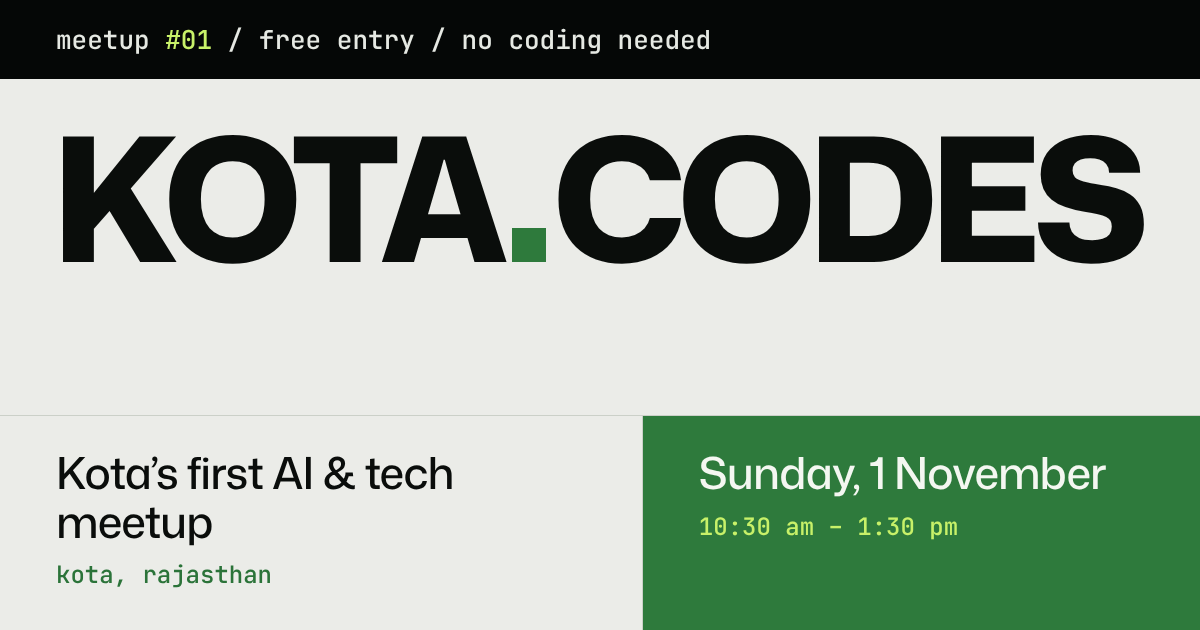
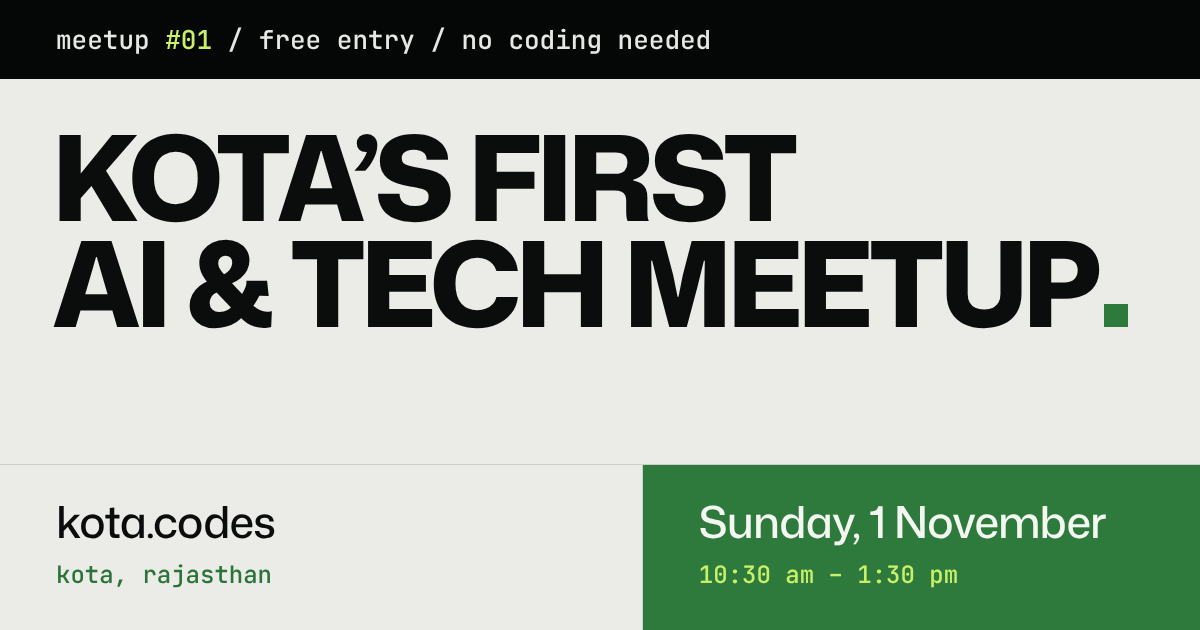
Make the meetup headline the hero instead of the wordmark
The brand already sits in the nav, so the big hero text now reads
"Kota's first AI & tech meetup" and is the page's h1. Share image
updated to match.

Claude-Session: https://claude.ai/code/session_01VZTSUdmzG6YwZKwjKbfjUG

diff --git a/src/styles.css b/src/styles.css
@@ -1,5 +1,5 @@
 /* Layout: a visible grid. Full-width bands split by hairlines; a framed 1280px column inside each band; cells divided by 1px lines.
-   One huge wordmark, lowercase slash headings, mono for dates and times, solid green blocks for actions. */
+   One huge headline, lowercase slash headings, mono for dates and times, solid green blocks for actions. */
 :root {
   --bg: #EBECE8;
   --cell: #E1E4DE;
@@ -74,8 +74,9 @@ a:focus-visible, summary:focus-visible { outline: 3px solid var(--green); outlin
 
 /* Hero */
 .mark-cell { padding: 24px 28px 20px; overflow: hidden; }
-.mark { font-weight: 800; font-size: 13vw; line-height: 0.86; letter-spacing: -0.045em; white-space: nowrap; display: inline-block; text-transform: uppercase; }
-@media (min-width: 1312px) { .mark { font-size: 170px; } }
+.mark { margin: 0; font-weight: 800; font-size: 8.4vw; line-height: 0.9; letter-spacing: -0.045em; white-space: nowrap; display: inline-block; text-transform: uppercase; }
+@media (min-width: 1312px) { .mark { font-size: 108px; } }
+.mark > span { display: block; }
 .mark .sq { display: inline-block; width: 0.2em; height: 0.2em; background: var(--green); margin: 0 0.04em 0 0.06em; vertical-align: 0; }
 @media (max-width: 640px) { .mark-cell { padding: 18px 20px 14px; } }
 
@@ -87,8 +88,7 @@ a:focus-visible, summary:focus-visible { outline: 3px solid var(--green); outlin
 .intro-cell { display: flex; flex-direction: column; }
 .cells > .intro-cell { background: var(--line); }
 .intro-cell .say { display: flex; flex-direction: column; gap: 16px; flex: 1; }
-.intro-cell h1 { font-size: clamp(30px, 3.4vw, 40px); line-height: 1.12; letter-spacing: -0.02em; font-weight: 600; }
-.intro-cell p { font-size: clamp(19px, 1.8vw, 22px); line-height: 1.45; max-width: 34em; }
+.intro-cell p { font-size: clamp(21px, 2.1vw, 28px); line-height: 1.35; letter-spacing: -0.01em; max-width: 34em; }
 .btn { display: flex; justify-content: space-between; align-items: center; gap: 16px; padding: 22px 22px; border-radius: 4px; background: var(--green); color: var(--on-green); text-decoration: none; font-size: 19px; font-weight: 600; }
 .btn:hover { filter: brightness(1.1); }
 

diff --git a/src/components/Hero.tsx b/src/components/Hero.tsx
@@ -1,7 +1,7 @@
 import { useEffect, useRef } from 'react';
 import { EVENT } from '../content';
 
-// Scale the wordmark to exactly fill its cell. CSS gives a close 13vw fallback before JS runs.
+// Scale the headline so its longest line exactly fills the cell. CSS gives a close vw fallback before JS runs.
 function useFitText() {
   const ref = useRef<HTMLParagraphElement>(null);
   useEffect(() => {
@@ -30,9 +30,9 @@ export function Hero() {
       <section className="band" aria-label={EVENT.name}>
         <div className="frame">
           <div className="mark-cell">
-            <p className="mark" ref={markRef} aria-label="Kota Codes">
-              Kota<span className="sq" aria-hidden="true"></span>Codes
-            </p>
+            <h1 className="mark" ref={markRef}>
+              <span>Kota’s first</span> <span>AI &amp; tech meetup<span className="sq" aria-hidden="true"></span></span>
+            </h1>
           </div>
         </div>
       </section>
@@ -49,7 +49,6 @@ export function Hero() {
           </div>
           <div className="intro-cell cells">
             <div className="pad say">
-              <h1>{EVENT.headline}</h1>
               <p>{EVENT.description}</p>
             </div>
             <div className="pad">

diff --git a/src/content.ts b/src/content.ts
@@ -10,7 +10,6 @@ export const SITE = {
 
 export const EVENT = {
   name: 'Kota Codes Meetup #01',
-  headline: 'Kota’s first AI & tech meetup',
   description:
     'A free, friendly morning to learn what AI really is, try it yourself, and meet people in Kota who are curious about technology. No coding knowledge needed.',
   start: '2026-11-01T10:30:00+05:30',
